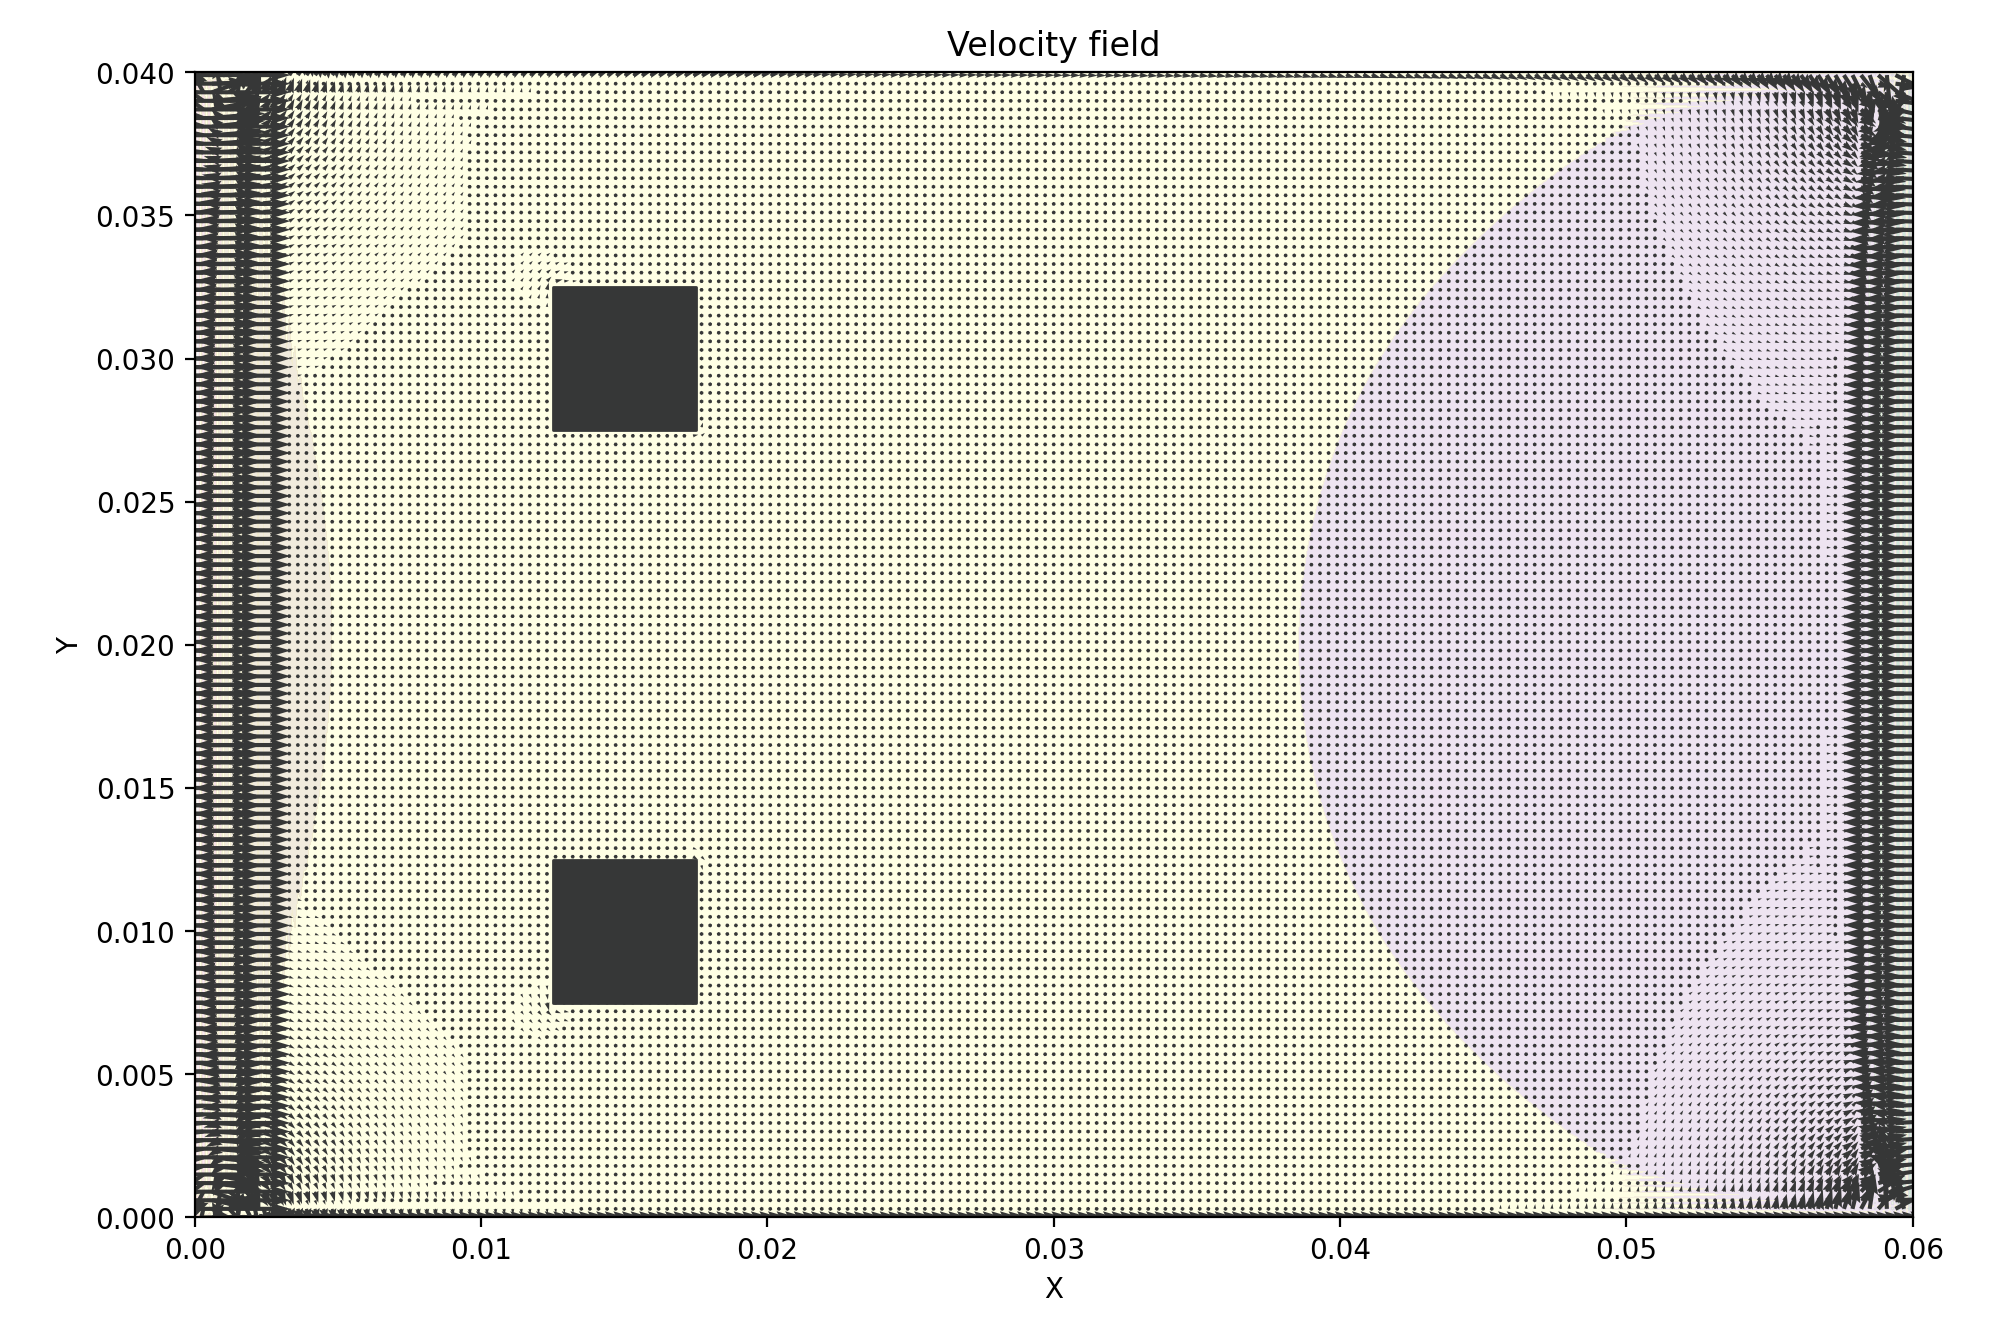
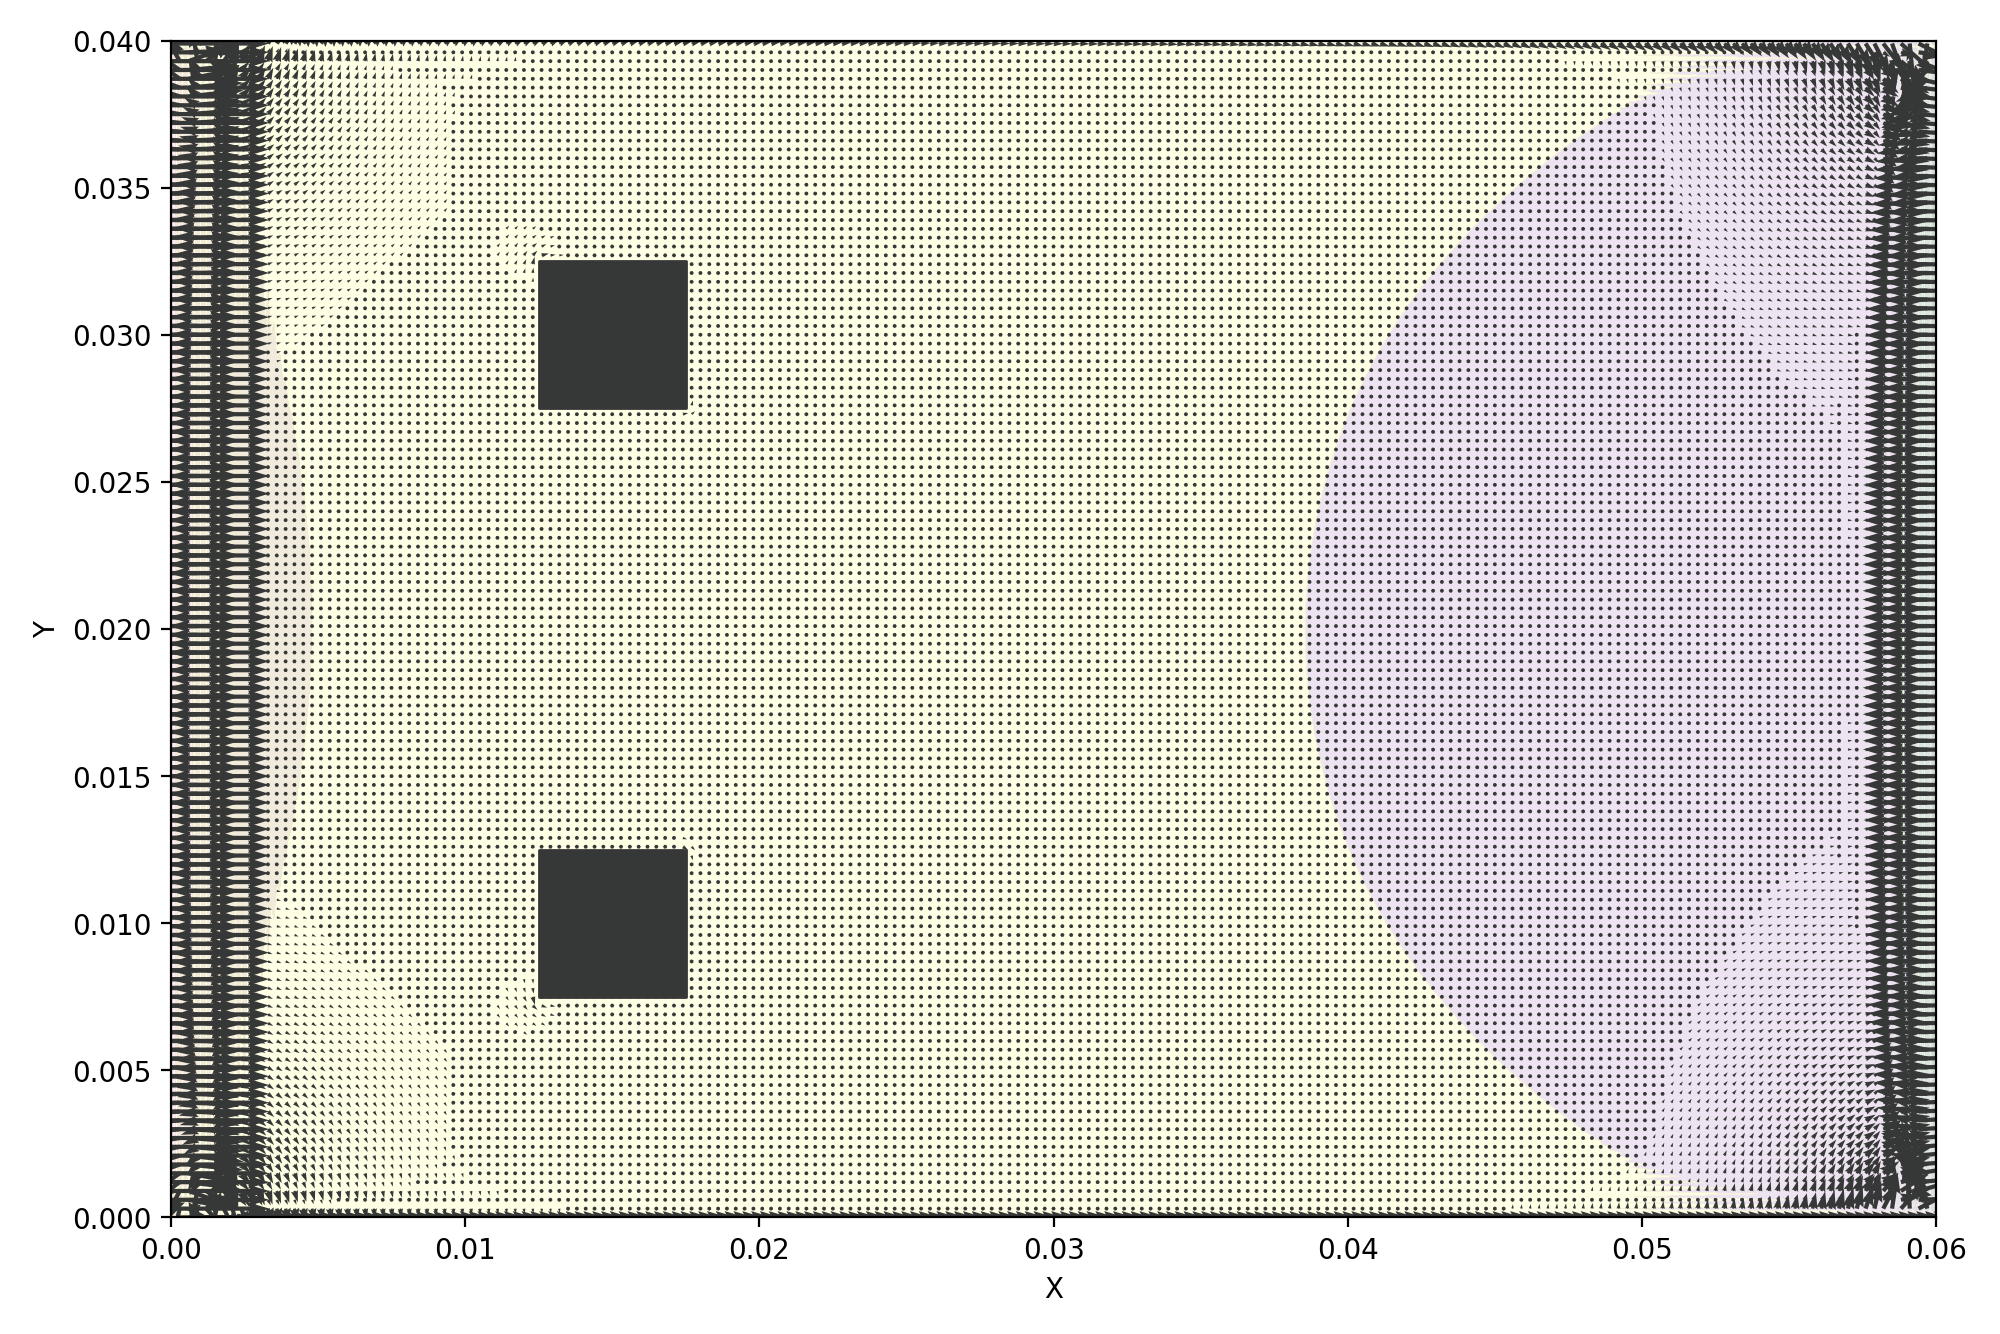
Updated all the figures and removed the titles

diff --git a/navier_stokes_fdm/environment.py b/navier_stokes_fdm/environment.py
@@ -177,7 +177,7 @@ class Environment:
             self.take_one_step()
 
     def plot_quiver_plot(
-        self, filepath=None, show_objects=True, number_of_items_to_skip=3
+        self, filepath=None, show_objects=True, number_of_items_to_skip=3, title=None
     ):
         width = 10
         height = width / self.nx * self.ny
@@ -198,7 +198,10 @@ class Environment:
 
         ax.set_xlabel("X")
         ax.set_ylabel("Y")
-        ax.set_title("Velocity field")
+        if title is None:
+            ax.set_title("Velocity field")
+        else:
+            ax.set_title(title)
         ax.set_aspect("equal")
 
         plt.tight_layout()
@@ -215,6 +218,7 @@ class Environment:
         return_figure=False,
         vmin=None,
         vmax=None,
+        title=None,
     ):
         width = 10
         height = width / self.nx * self.ny
@@ -235,7 +239,10 @@ class Environment:
 
         ax.set_xlabel("X")
         ax.set_ylabel("Y")
-        ax.set_title("Velocity field")
+        if title is None:
+            ax.set_title("Velocity field")
+        else:
+            ax.set_title(title)
         ax.set_aspect("equal")
 
         plt.tight_layout()

diff --git a/examples/pipe_flow_example.py b/examples/pipe_flow_example.py
@@ -1,14 +1,18 @@
 from navier_stokes_fdm import Environment
 import navier_stokes_fdm.boundary_condition as bc
 
-boundary_conditions = [bc.TopSideNoSlipBoundaryCondition(),
-                       bc.BottomSideNoSlipBoundaryCondition(),
-                       bc.LeftSidePeriodicBoundaryCondition(),
-                       bc.RightSidePeriodicBoundaryCondition()]
+boundary_conditions = [
+    bc.TopSideNoSlipBoundaryCondition(),
+    bc.BottomSideNoSlipBoundaryCondition(),
+    bc.LeftSidePeriodicBoundaryCondition(),
+    bc.RightSidePeriodicBoundaryCondition(),
+]
 
 a = Environment(F=(1.0, 0.0), dt=0.001, boundary_conditions=boundary_conditions)
 
 a.run_many_steps(5000)
 
-# a.plot_quiver_plot()
-a.plot_streamline_plot()
+a.plot_quiver_plot(title=None, filepath="../Figures/pipe_flow_example_quiver.png")
+a.plot_streamline_plot(
+    title=None, filepath="../Figures/pipe_flow_example_streamline.png"
+)

diff --git a/examples/two_box_example.py b/examples/two_box_example.py
@@ -18,8 +18,10 @@ boundary_conditions = [
 dimension = 0.005
 x1, y1 = 0.0125, (0.04 / 2) - (dimension / 2)
 
-objects = [Rectangle(x1, y1 - 0.01, x1 + dimension, y1 - 0.01 + dimension),
-           Rectangle(x1, y1 + 0.01, x1 + dimension, y1 + 0.01 + dimension)]
+objects = [
+    Rectangle(x1, y1 - 0.01, x1 + dimension, y1 - 0.01 + dimension),
+    Rectangle(x1, y1 + 0.01, x1 + dimension, y1 + 0.01 + dimension),
+]
 
 L = objects[0].y2 - objects[0].y1
 Reynolds = (rho_air * U * L) / nu_air
@@ -38,5 +40,5 @@ a = Environment(
 )
 
 a.run_many_steps(240)
-a.plot_streamline_plot(filepath="../Figures/two_box_example_streamline.png")
-a.plot_quiver_plot(filepath="../Figures/two_box_example_quiver.png")
+a.plot_streamline_plot(title="", filepath="../Figures/two_box_example_streamline.png")
+a.plot_quiver_plot(title="", filepath="../Figures/two_box_example_quiver.png")

diff --git a/examples/box_example.py b/examples/box_example.py
@@ -36,5 +36,5 @@ a = Environment(
 )
 
 a.run_many_steps(480)
-a.plot_streamline_plot(filepath="../Figures/box_example_streamline.png")
-a.plot_quiver_plot(filepath="../Figures/box_example_quiver.png")
+a.plot_streamline_plot(title="", filepath="../Figures/box_example_streamline.png")
+a.plot_quiver_plot(title="", filepath="../Figures/box_example_quiver.png")
